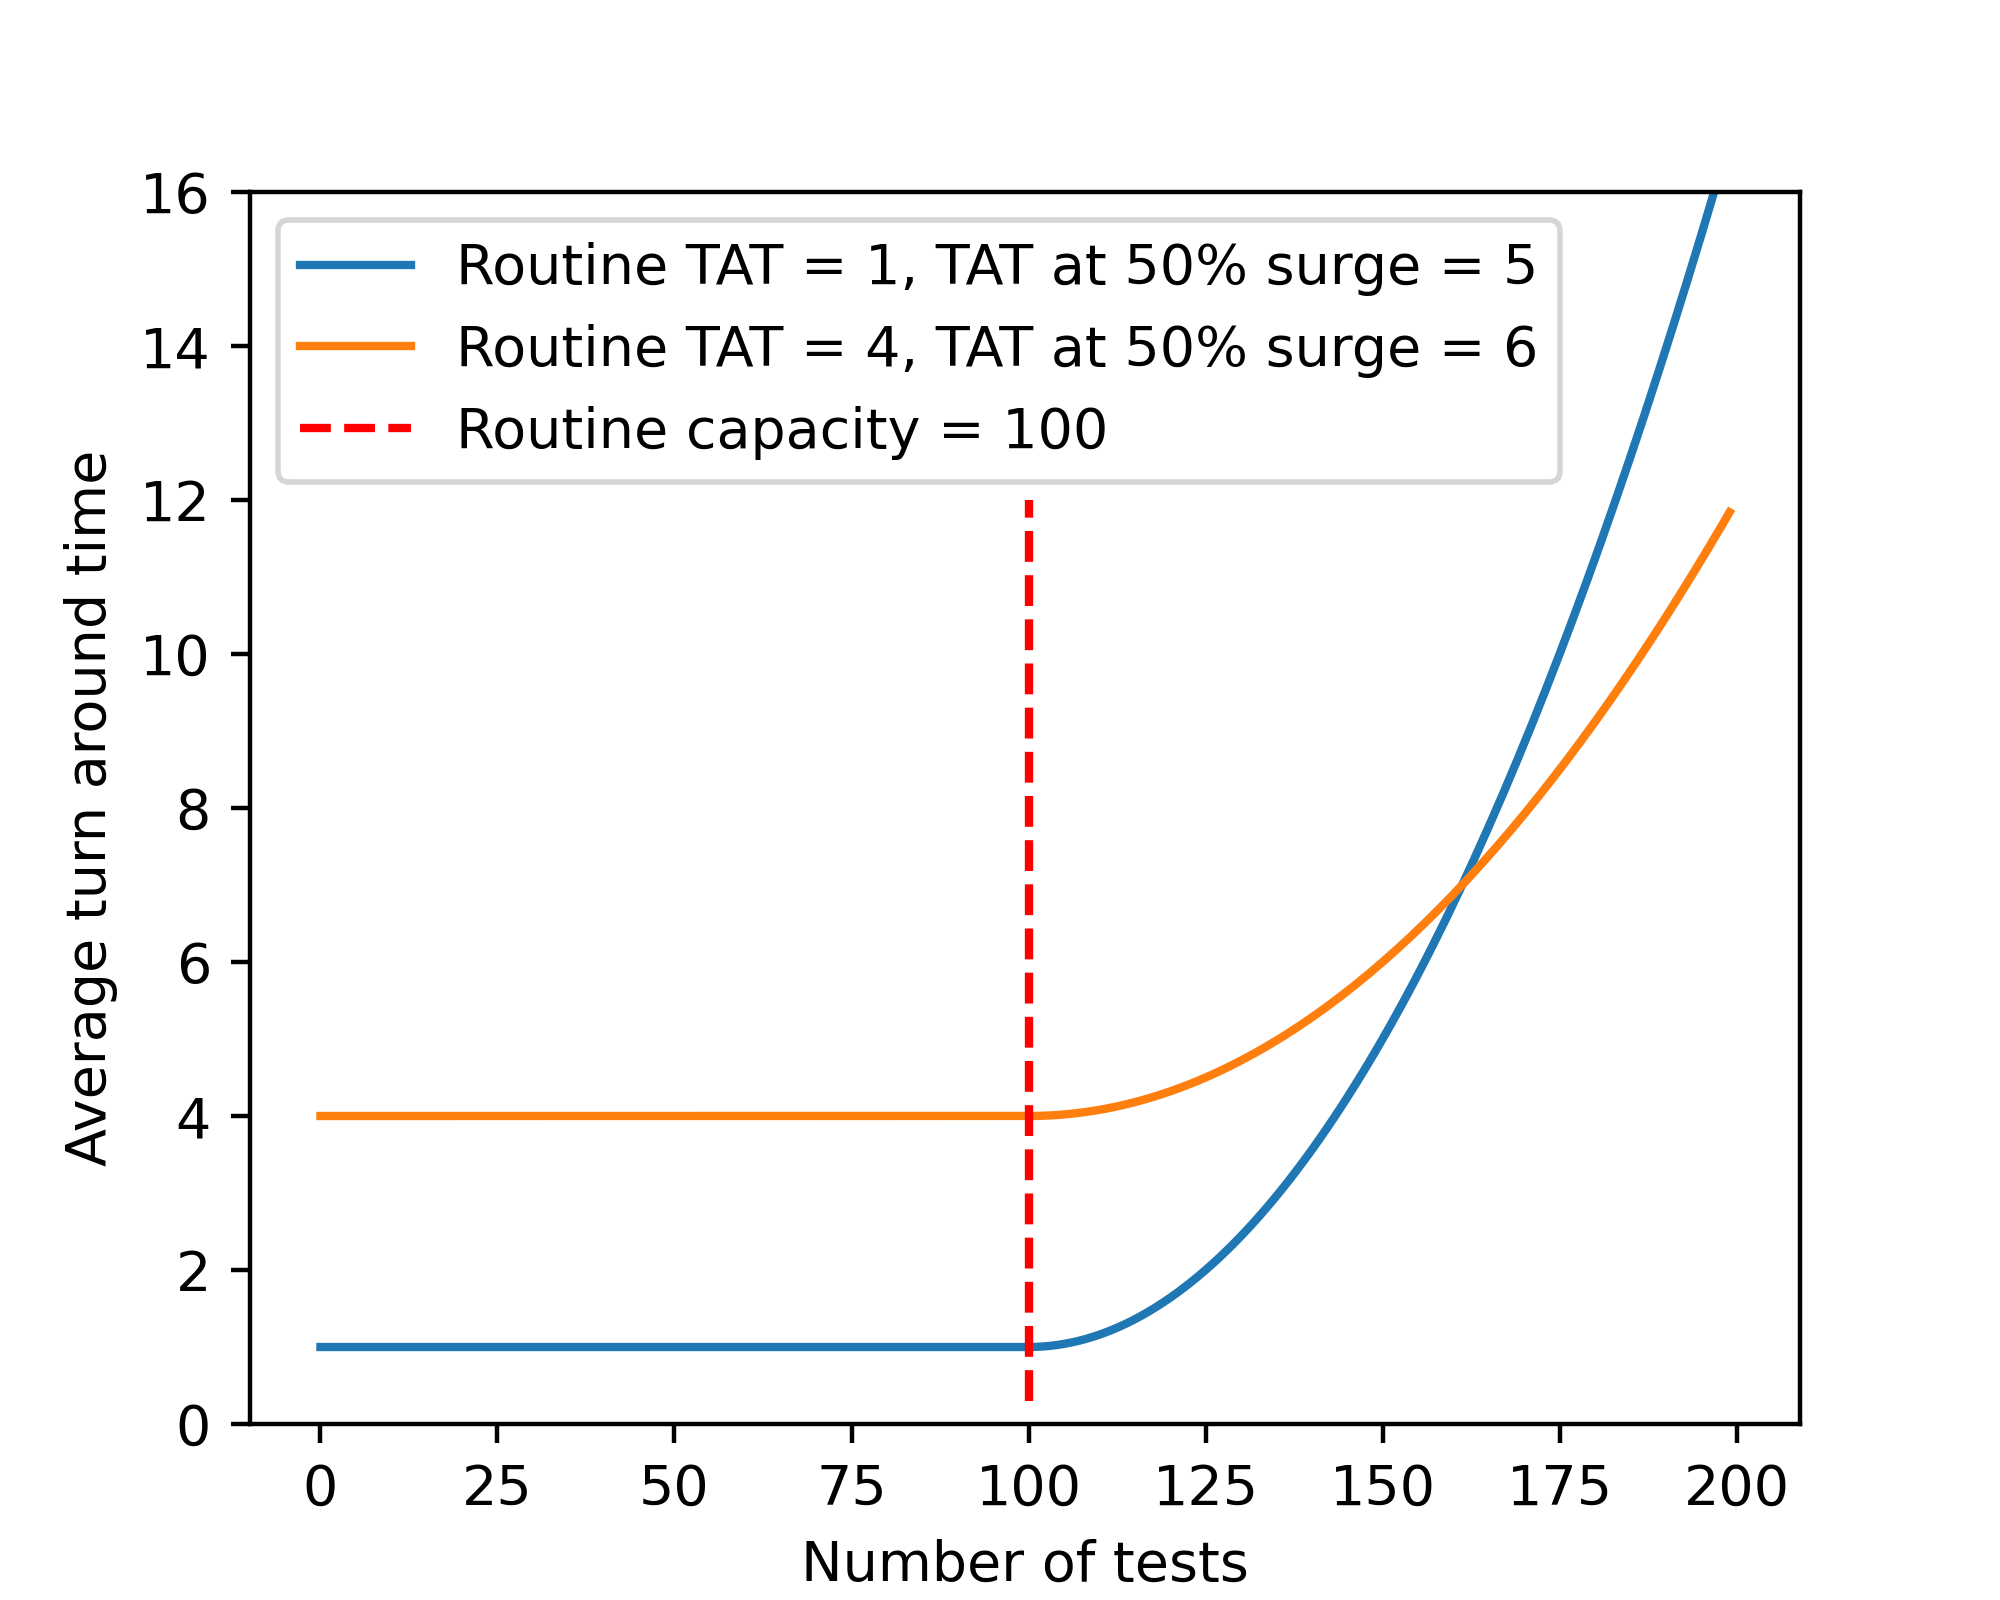
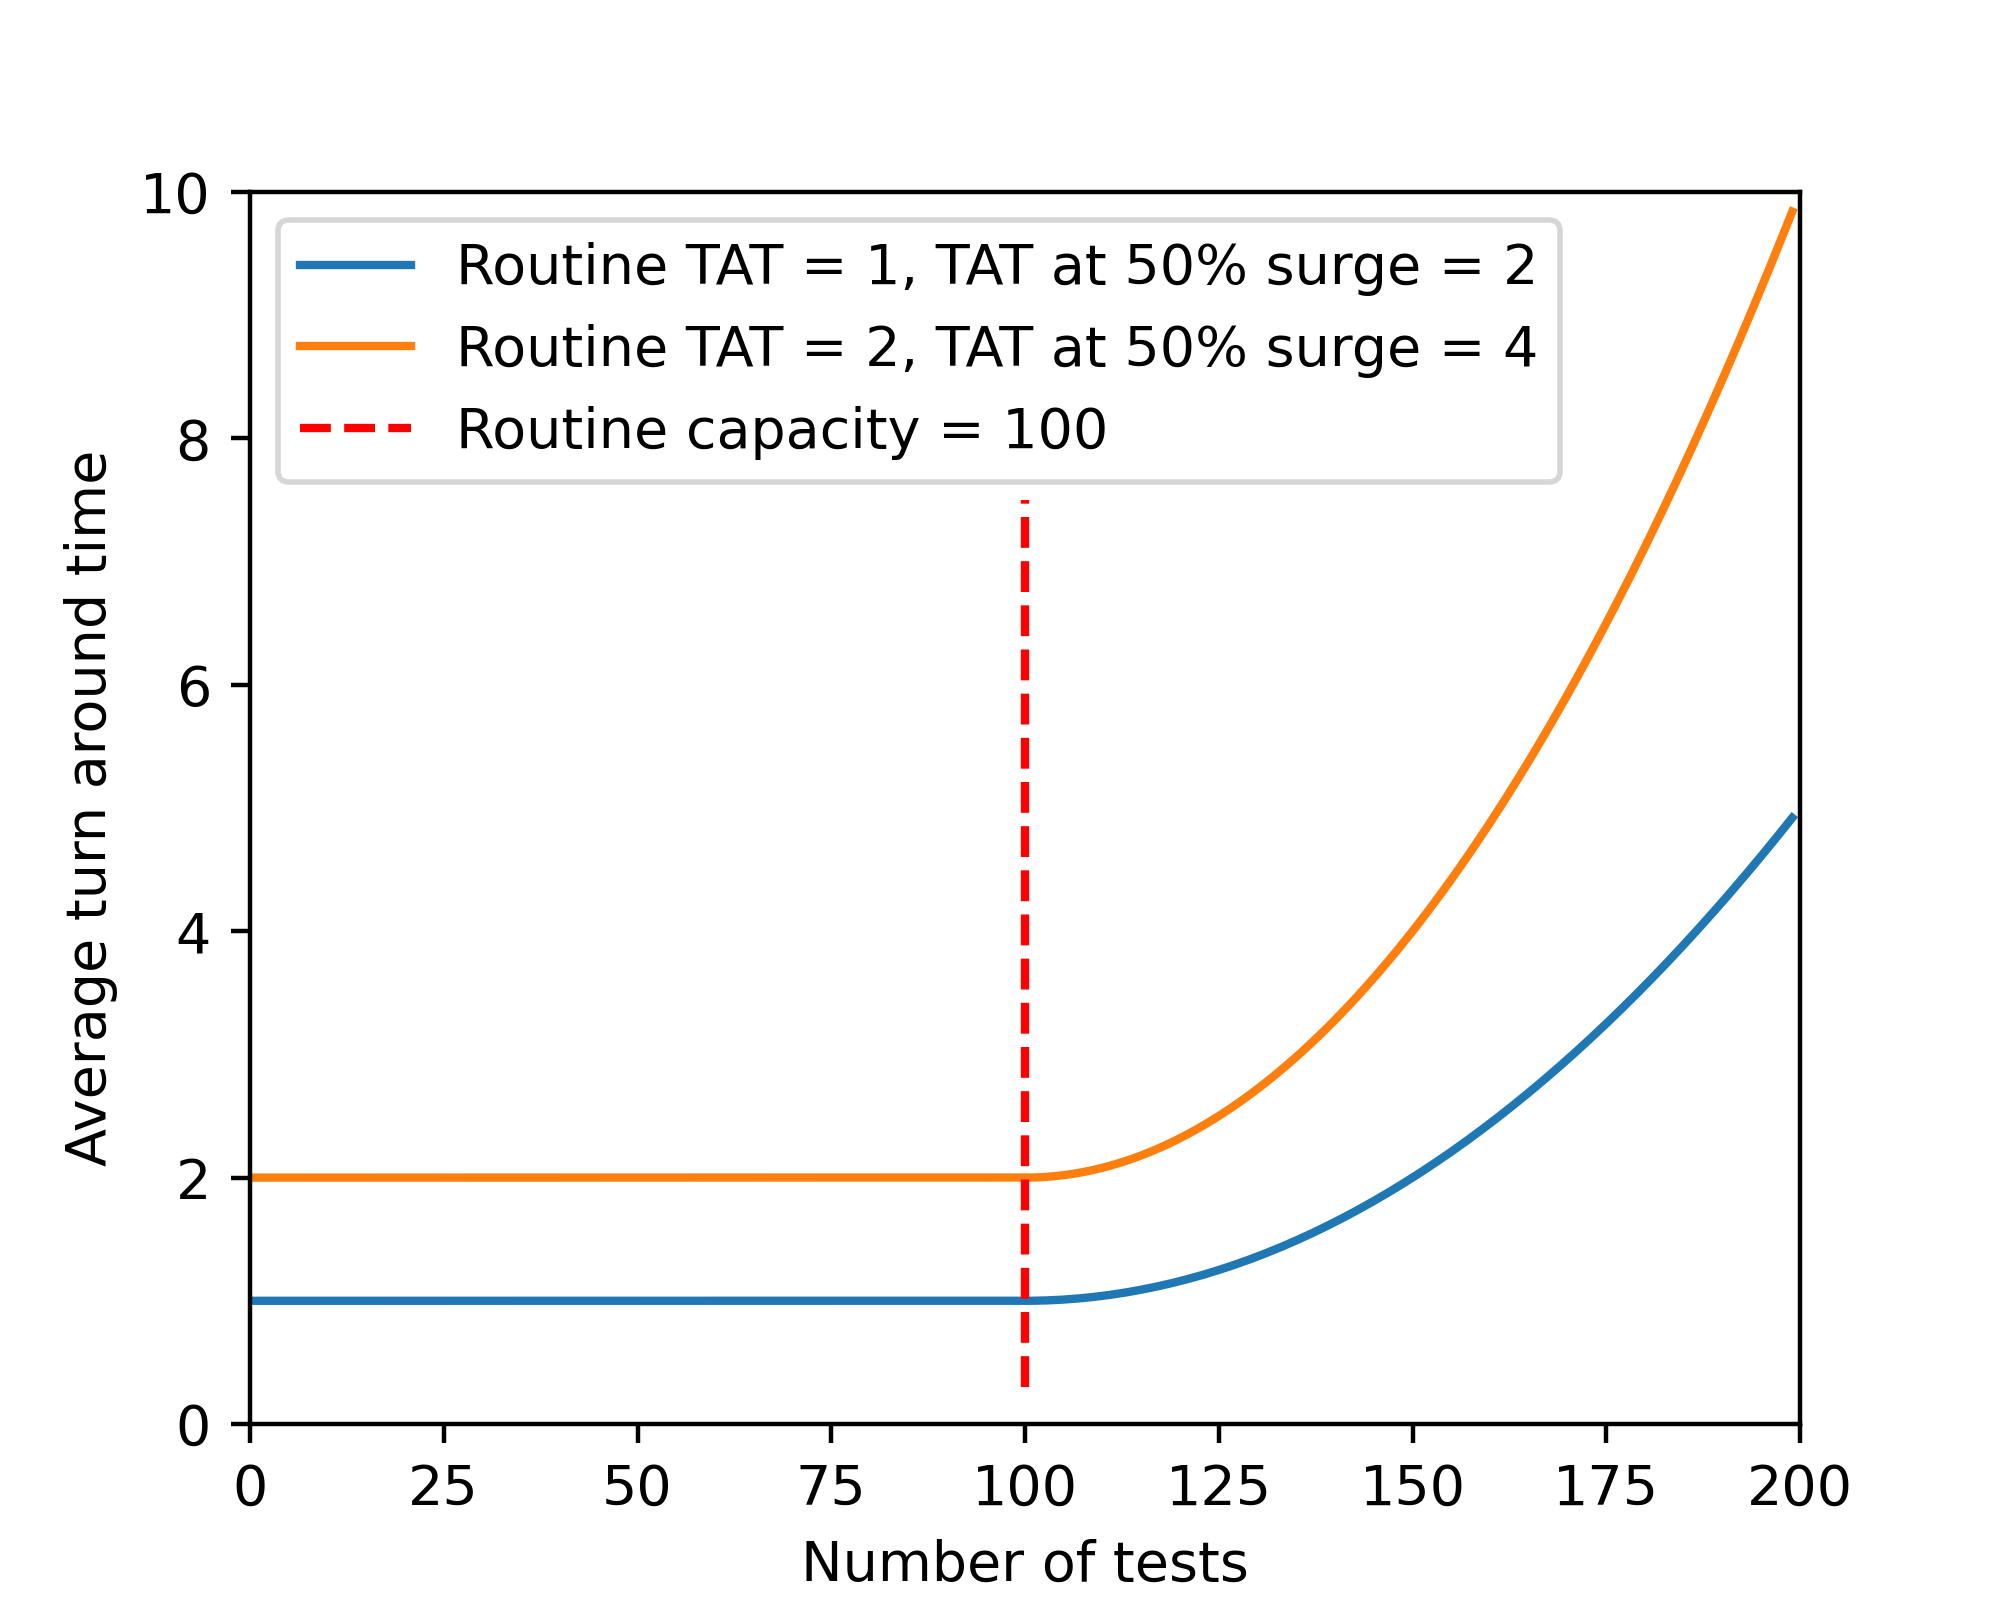
Updated the TAT figure

diff --git a/TestOptimisationFigures_MS.py b/TestOptimisationFigures_MS.py
@@ -8,13 +8,13 @@ import itertools
 
 if __name__ == "__main__":
     test_figure_area = False
-    tat_figure = False
+    tat_figure = True
     kretzschmar_figure = False
     onward_transmission_double_figure = False
     track_trace_impact_figure = False
     positive_percent_impact_figure = False
     supplement_pos_perc_figures = False
-    supplement_figure_non_quadratic = True
+    supplement_figure_non_quadratic = False
 
     base_figure_directory = 'MS_figures'
 
@@ -555,8 +555,8 @@ if __name__ == "__main__":
         test_optim.plot_transmission_with_testing()
 
     if tat_figure:
-        tat_list = [[1, 5],
-                    [4, 6]]
+        tat_list = [[1, 2],
+                    [2, 4]]
         test_optim_1 = TestOptimisation(routine_tat=tat_list[0][0],
                                       tat_at_fifty_percent_surge=tat_list[0][1],
                                       routine_capacity=100)
@@ -569,12 +569,12 @@ if __name__ == "__main__":
         test_optim_1.plot_turn_around_time()
         test_optim_2.plot_turn_around_time()
 
-        plt.plot([100, 100], [0.3, 12], 'r--')
+        plt.plot([100, 100], [0.3, 7.5], 'r--')
 
         plt.legend([f'Routine TAT = {rtat}, TAT at 50% surge = {stat}'
                     for rtat, stat in tat_list] +
                    ['Routine capacity = 100'])
-        plt.ylim([0, 16])
+        plt.ylim([0, 10])
         plt.xlim([0, 200])
         plt.savefig('MS_figures/TAT_figure.png')
         plt.show()
